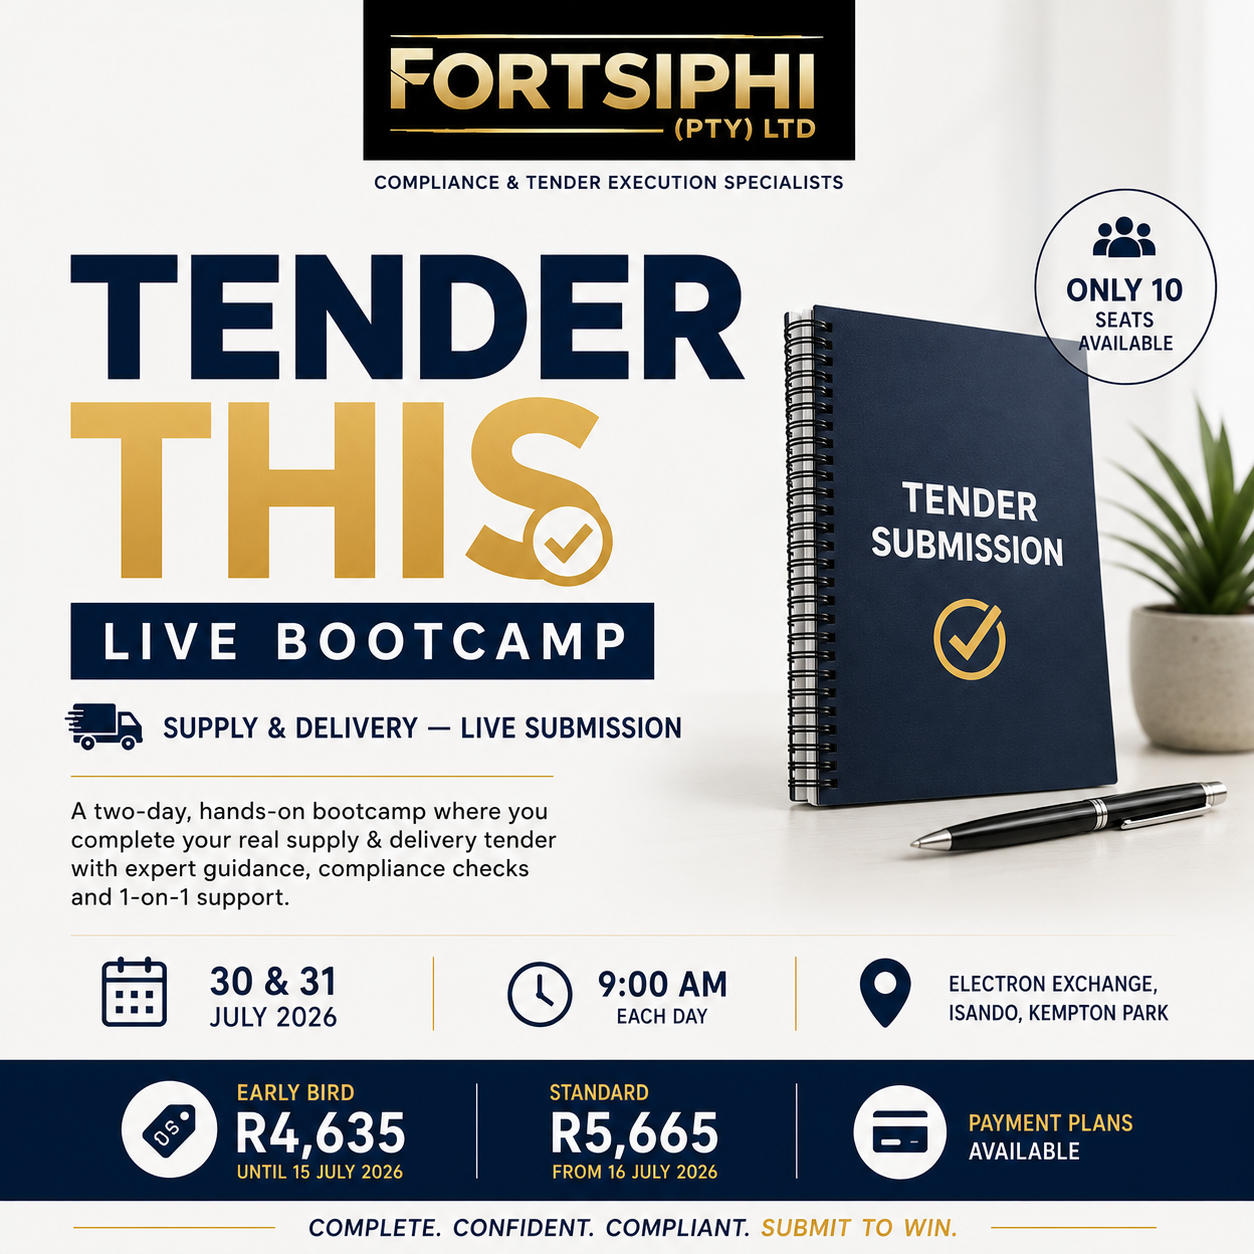
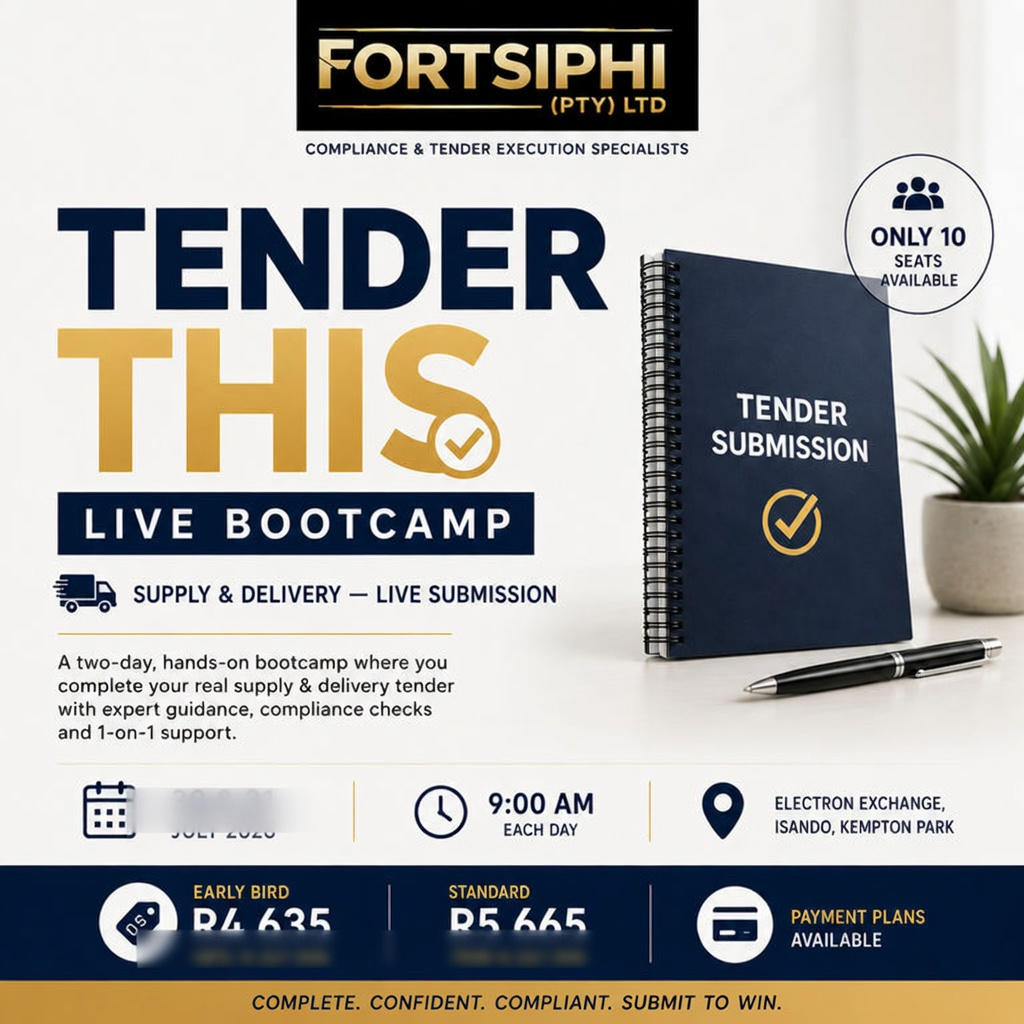
Remove Tender This Bootcamp fixed dates; publish date TBA
Replace 30-31 July 2026 copy with New date will be published soon across the landing page, site banner, and bootcamp API. Remove the countdown timer and blur date text on the promotional poster.

diff --git a/client/src/pages/TenderThisLanding.tsx b/client/src/pages/TenderThisLanding.tsx
@@ -1,4 +1,4 @@
-import { useEffect, useMemo, useState } from "react";
+import { useEffect, useState } from "react";
 import { useQuery } from "@tanstack/react-query";
 import { motion } from "framer-motion";
 import {
@@ -90,7 +90,7 @@ const faqs = [
   },
   {
     q: "What are the event dates and times?",
-    a: "30 & 31 July 2026, 9:00 AM to 5:00 PM each day.",
+    a: "A new date will be published soon. Sessions run 9:00 AM to 5:00 PM each day once confirmed.",
   },
   {
     q: "What is the ticket price?",
@@ -109,24 +109,6 @@ const faqs = [
     a: "Yes. WhatsApp us on 081 365 5901 or call 010 065 3247 for questions about compliance documents or suitability.",
   },
 ];
-
-function useCountdown(target: string) {
-  const [now, setNow] = useState(Date.now());
-
-  useEffect(() => {
-    const id = setInterval(() => setNow(Date.now()), 1000);
-    return () => clearInterval(id);
-  }, []);
-
-  return useMemo(() => {
-    const diff = Math.max(0, new Date(target).getTime() - now);
-    const days = Math.floor(diff / (1000 * 60 * 60 * 24));
-    const hours = Math.floor((diff / (1000 * 60 * 60)) % 24);
-    const minutes = Math.floor((diff / (1000 * 60)) % 60);
-    const seconds = Math.floor((diff / 1000) % 60);
-    return { days, hours, minutes, seconds };
-  }, [now, target]);
-}
 
 function SectionLabel({ children }: { children: React.ReactNode }) {
   return (
@@ -150,10 +132,10 @@ export default function TenderThisLanding() {
     },
   });
 
-  const countdown = useCountdown(data?.event.countdownTarget || "2026-07-30T09:00:00+02:00");
   const seatsLeft = data?.seats.left ?? 10;
   const soldOut = data?.seats.soldOut ?? false;
   const urgencyTone = seatsLeft <= 4 ? "urgent" : "normal";
+  const eventDates = data?.event.dates || "New date will be published soon";
 
   useEffect(() => {
     document.title =
@@ -162,14 +144,14 @@ export default function TenderThisLanding() {
     if (meta) {
       meta.setAttribute(
         "content",
-        "Two-day hands-on Supply & Delivery tender submission bootcamp. Complete your real tender with expert guidance. 30 & 31 July 2026, Isando. Only 10 seats.",
+        "Two-day hands-on Supply & Delivery tender submission bootcamp. Complete your real tender with expert guidance. New date will be published soon. Isando. Only 10 seats.",
       );
     }
   }, []);
 
   const shareUrl = typeof window !== "undefined" ? window.location.href.split("?")[0] : "";
   const shareMessage = encodeURIComponent(
-    "I'm booking the Tender This Live Bootcamp with Fortsiphi — 30 & 31 July 2026. Only 10 seats. Join me: ",
+    "I'm booking the Tender This Live Bootcamp with Fortsiphi — new date will be published soon. Only 10 seats. Join me: ",
   );
 
   const handleCopyLink = async () => {
@@ -261,7 +243,7 @@ export default function TenderThisLanding() {
                 className="flex flex-wrap gap-4 mt-6 text-sm text-white/80"
               >
                 <span className="flex items-center gap-1.5">
-                  <Calendar className="h-4 w-4 text-[#C9A84C]" /> 30 & 31 July 2026
+                  <Calendar className="h-4 w-4 text-[#C9A84C]" /> {eventDates}
                 </span>
                 <span className="flex items-center gap-1.5">
                   <Clock className="h-4 w-4 text-[#C9A84C]" /> 9:00 AM each day
@@ -549,32 +531,18 @@ export default function TenderThisLanding() {
         </div>
       </section>
 
-      {/* Section 9 — Event Details + Countdown */}
+      {/* Section 9 — Event Details */}
       <section className="bg-[#0B1D2E] text-white py-16">
         <div className="max-w-[760px] mx-auto px-5 sm:px-8 text-center">
           <SectionLabel>Event details</SectionLabel>
-          <h2 className="text-[26px] font-extrabold mb-8">30 & 31 July 2026</h2>
-          <div className="grid grid-cols-4 gap-3 mb-10">
-            {[
-              { label: "Days", value: countdown.days },
-              { label: "Hours", value: countdown.hours },
-              { label: "Minutes", value: countdown.minutes },
-              { label: "Seconds", value: countdown.seconds },
-            ].map((block) => (
-              <div
-                key={block.label}
-                className="relative bg-white/10 rounded-lg py-4 border-t-2 border-[#C9A84C]"
-              >
-                <div className="text-2xl sm:text-3xl font-black">{block.value}</div>
-                <div className="text-[11px] uppercase tracking-widest text-white/60 mt-1">
-                  {block.label}
-                </div>
-              </div>
-            ))}
-          </div>
+          <h2 className="text-[26px] font-extrabold mb-4">{eventDates}</h2>
+          <p className="text-white/70 text-sm mb-10 max-w-md mx-auto">
+            We&apos;re finalising the next bootcamp dates. Join the interest list or secure your
+            seat — we&apos;ll confirm the new date soon.
+          </p>
           <div className="grid sm:grid-cols-2 gap-4 text-left text-sm">
             {[
-              { icon: Calendar, label: "Dates", value: "30 & 31 July 2026" },
+              { icon: Calendar, label: "Dates", value: eventDates },
               { icon: Clock, label: "Time", value: "9:00 AM – 5:00 PM daily" },
               { icon: MapPin, label: "Venue", value: "Electron Exchange, Isando" },
               { icon: Users, label: "Capacity", value: "Maximum 10 participants" },
@@ -624,7 +592,7 @@ export default function TenderThisLanding() {
                   <p className="text-[38px] font-black leading-none mt-1">
                     {data?.pricing.standard.priceFormatted || "R5,665"}
                   </p>
-                  <p className="text-[11px] mt-1 text-white/60">30 & 31 July 2026 · Maximum 10 participants</p>
+                  <p className="text-[11px] mt-1 text-white/60">{eventDates} · Maximum 10 participants</p>
                 </div>
                 <div className="p-5 flex-1 flex flex-col bg-[#F8F9FA]">
                   {data?.product.id && (

diff --git a/server/bootcamp-routes.ts b/server/bootcamp-routes.ts
@@ -87,12 +87,12 @@ export function registerBootcampRoutes(app: Express) {
           },
         },
         event: {
-          dates: "30 & 31 July 2026",
+          dates: "New date will be published soon",
           time: "9:00 AM – 5:00 PM",
           venue: "Electron Exchange, Isando, Kempton Park",
           address:
             "Unit 49, Electron Exchange, 50 Electron Avenue, Isando, Kempton Park, 1619",
-          countdownTarget: "2026-07-30T09:00:00+02:00",
+          countdownTarget: "",
         },
         seats: {
           total: 10,

diff --git a/client/src/components/layout/Navigation.tsx b/client/src/components/layout/Navigation.tsx
@@ -26,7 +26,7 @@ export function Navigation() {
           <p className="truncate text-primary-foreground/90">
             <span className="hidden sm:inline font-medium">Tender This™ Live Bootcamp</span>
             <span className="sm:hidden font-medium">Live Bootcamp</span>
-            <span className="text-primary-foreground/70"> · 30 & 31 July 2026</span>
+            <span className="text-primary-foreground/70"> · New date will be published soon</span>
           </p>
           <Link href="/tender-this">
             <Button
